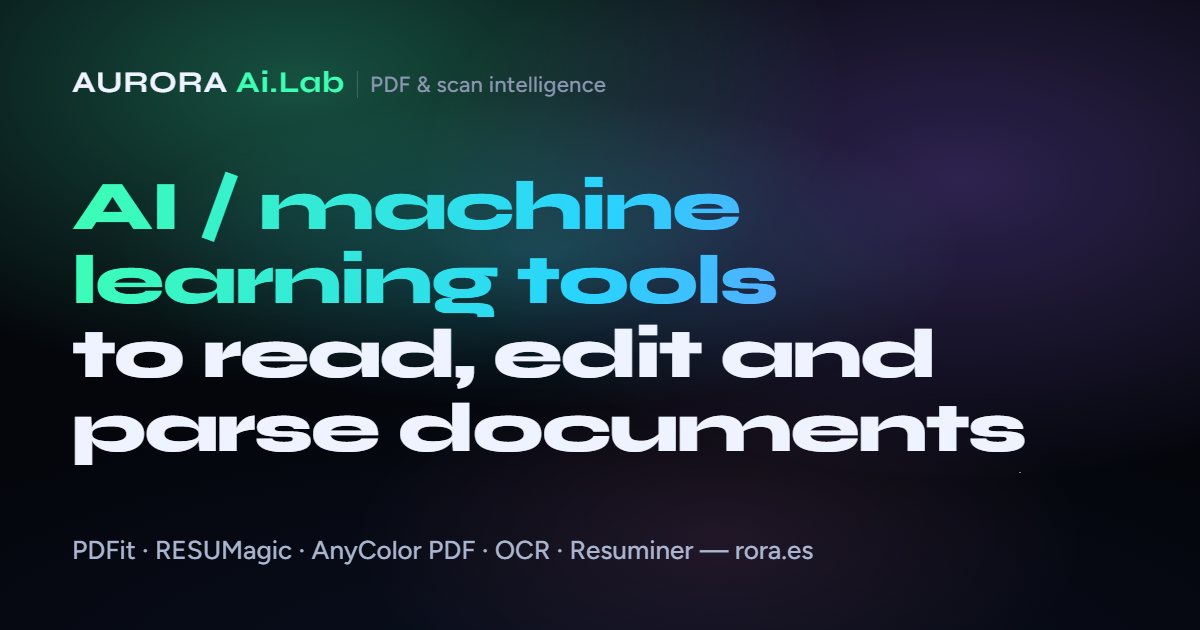
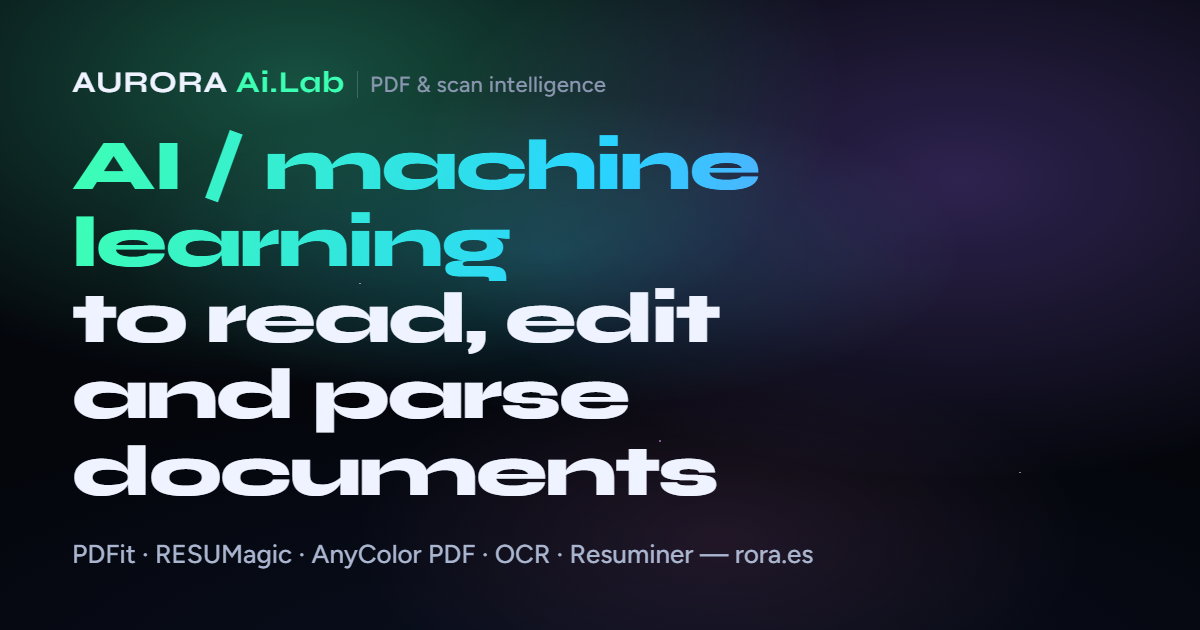
Home page: AI / machine learning headline without tools, AI / ML on phones
Claude-Session: https://claude.ai/code/session_018wxw8nUirvxwf4q119Hca8

Changed region(s): [[0.0617, 0.2111, 0.8633, 0.7841], [0.0617, 0.8444, 0.6783, 0.9048]]

diff --git a/es/index.html b/es/index.html
@@ -3,7 +3,7 @@
 <head>
 <meta charset="utf-8">
 <meta name="viewport" content="width=device-width, initial-scale=1, viewport-fit=cover">
-<title>AURORA Ai.Lab — herramientas de IA / ML para leer, editar y analizar documentos</title>
+<title>AURORA Ai.Lab — IA / machine learning para leer, editar y analizar documentos</title>
 <meta name="description" content="AURORA Ai.Lab crea herramientas de documentos. Para todos: edición de PDF en línea que conserva fuentes y maquetación, edición de currículos y recoloreado de PDF. Para empresas: OCR para PDF y escaneos y análisis de currículos a XML para ATS.">
 <link rel="canonical" href="https://rora.es/es/">
 <link rel="alternate" hreflang="en" href="https://rora.es/">
@@ -12,7 +12,7 @@
 <meta property="og:type" content="website">
 <meta property="og:site_name" content="AURORA Ai.Lab">
 <meta property="og:locale" content="es_ES">
-<meta property="og:title" content="AURORA Ai.Lab — herramientas de IA / ML para leer, editar y analizar documentos">
+<meta property="og:title" content="AURORA Ai.Lab — IA / machine learning para leer, editar y analizar documentos">
 <meta property="og:description" content="Edición de PDF en línea que conserva fuentes y maquetación, edición de currículos y recoloreado de PDF. OCR y análisis de currículos para empresas.">
 <meta property="og:url" content="https://rora.es/es/">
 <meta property="og:image" content="https://rora.es/og.png">
@@ -40,7 +40,7 @@
   </header>
 
   <main class="hero">
-    <h1><span class="line"><span class="w hl" style="--i:0">Herramientas</span> <span class="w hl" style="--i:1">de</span> <span class="w hl" style="--i:2">IA</span> <span class="w hl" style="--i:3">/</span> <span class="w hl" style="--i:4">ML</span></span> <span class="line"><span class="w" style="--i:5">para</span> <span class="w" style="--i:6">leer,</span> <span class="w" style="--i:7">editar</span> <span class="w" style="--i:8">y</span> <span class="w" style="--i:9">analizar</span> <span class="w" style="--i:10">documentos</span></span><span class="scan" aria-hidden="true"></span></h1>
+    <h1><span class="line"><span class="w hl" style="--i:0">IA</span> <span class="w hl" style="--i:1">/</span> <span class="w hl long" style="--i:2">machine learning</span><span class="w hl short" style="--i:2">ML</span></span> <span class="line"><span class="w" style="--i:3">para</span> <span class="w" style="--i:4">leer,</span> <span class="w" style="--i:5">editar</span> <span class="w" style="--i:6">y</span> <span class="w" style="--i:7">analizar</span> <span class="w" style="--i:8">documentos</span></span><span class="scan" aria-hidden="true"></span></h1>
   </main>
 
   <section class="products" aria-label="Productos">

diff --git a/index.html b/index.html
@@ -3,7 +3,7 @@
 <head>
 <meta charset="utf-8">
 <meta name="viewport" content="width=device-width, initial-scale=1, viewport-fit=cover">
-<title>AURORA Ai.Lab — AI / machine learning tools to read, edit and parse documents</title>
+<title>AURORA Ai.Lab — AI / machine learning to read, edit and parse documents</title>
 <meta name="description" content="AURORA Ai.Lab builds document tools. For everyone: online PDF editing that keeps fonts and layout, resume editing and PDF recolouring. For business: OCR for PDFs and scans and resume parsing into XML for ATS.">
 <link rel="canonical" href="https://rora.es/">
 <link rel="alternate" hreflang="en" href="https://rora.es/">
@@ -11,7 +11,7 @@
 <link rel="alternate" hreflang="x-default" href="https://rora.es/">
 <meta property="og:type" content="website">
 <meta property="og:site_name" content="AURORA Ai.Lab">
-<meta property="og:title" content="AURORA Ai.Lab — AI / machine learning tools to read, edit and parse documents">
+<meta property="og:title" content="AURORA Ai.Lab — AI / machine learning to read, edit and parse documents">
 <meta property="og:description" content="Online PDF editing that keeps fonts and layout, resume editing and PDF recolouring. OCR and resume parsing for business.">
 <meta property="og:url" content="https://rora.es/">
 <meta property="og:image" content="https://rora.es/og.png">
@@ -39,7 +39,7 @@
   </header>
 
   <main class="hero">
-    <h1><span class="line"><span class="w hl" style="--i:0">AI</span> <span class="w hl" style="--i:1">/</span> <span class="w hl" style="--i:2">machine</span> <span class="w hl" style="--i:3">learning</span> <span class="w hl" style="--i:4">tools</span></span> <span class="line"><span class="w" style="--i:5">to</span> <span class="w" style="--i:6">read,</span> <span class="w" style="--i:7">edit</span> <span class="w" style="--i:8">and</span> <span class="w" style="--i:9">parse</span> <span class="w" style="--i:10">documents</span></span><span class="scan" aria-hidden="true"></span></h1>
+    <h1><span class="line"><span class="w hl" style="--i:0">AI</span> <span class="w hl" style="--i:1">/</span> <span class="w hl long" style="--i:2">machine learning</span><span class="w hl short" style="--i:2">ML</span></span> <span class="line"><span class="w" style="--i:3">to</span> <span class="w" style="--i:4">read,</span> <span class="w" style="--i:5">edit</span> <span class="w" style="--i:6">and</span> <span class="w" style="--i:7">parse</span> <span class="w" style="--i:8">documents</span></span><span class="scan" aria-hidden="true"></span></h1>
   </main>
 
   <section class="products" aria-label="Products">

diff --git a/aurora.css b/aurora.css
@@ -65,6 +65,8 @@ header { display: flex; justify-content: space-between; align-items: center; gap
 .hero { position: relative; display: grid; justify-items: start; padding-top: clamp(16px, 7vh, 72px); padding-bottom: clamp(0px, 2vh, 16px); }
 h1 { position: relative; margin: 0; max-width: none; font: 800 clamp(2rem, 4.1vw, 3.9rem)/1.06 var(--display); letter-spacing: -.03em; text-wrap: balance; }
 h1 .line { display: block; }
+/* "machine learning" on wide screens, "ML" on phones so the coloured line stays one line */
+h1 .w.short { display: none; }
 h1 .w { display: inline-block; animation: read 1s cubic-bezier(.16, 1, .3, 1) both; animation-delay: calc(var(--i) * 80ms + 200ms); }
 h1 .w.hl { color: transparent; -webkit-background-clip: text; background-clip: text;
   background-image: linear-gradient(100deg, var(--green), var(--teal) 50%, var(--violet)); }
@@ -157,6 +159,8 @@ footer a:hover { color: var(--ink); }
   .mark { flex-direction: column; }
   .mark .tagline { padding-left: 0; border-left: 0; font-size: .78rem; }
   h1 { font-size: min(2.4rem, 8.4vw); }
+  h1 .w.long { display: none; }
+  h1 .w.short { display: inline-block; }
 }
 @media (prefers-reduced-motion: reduce) {
   .band, .tile::before, .tag.live::before, h1 .w, .tile { animation: none; }
